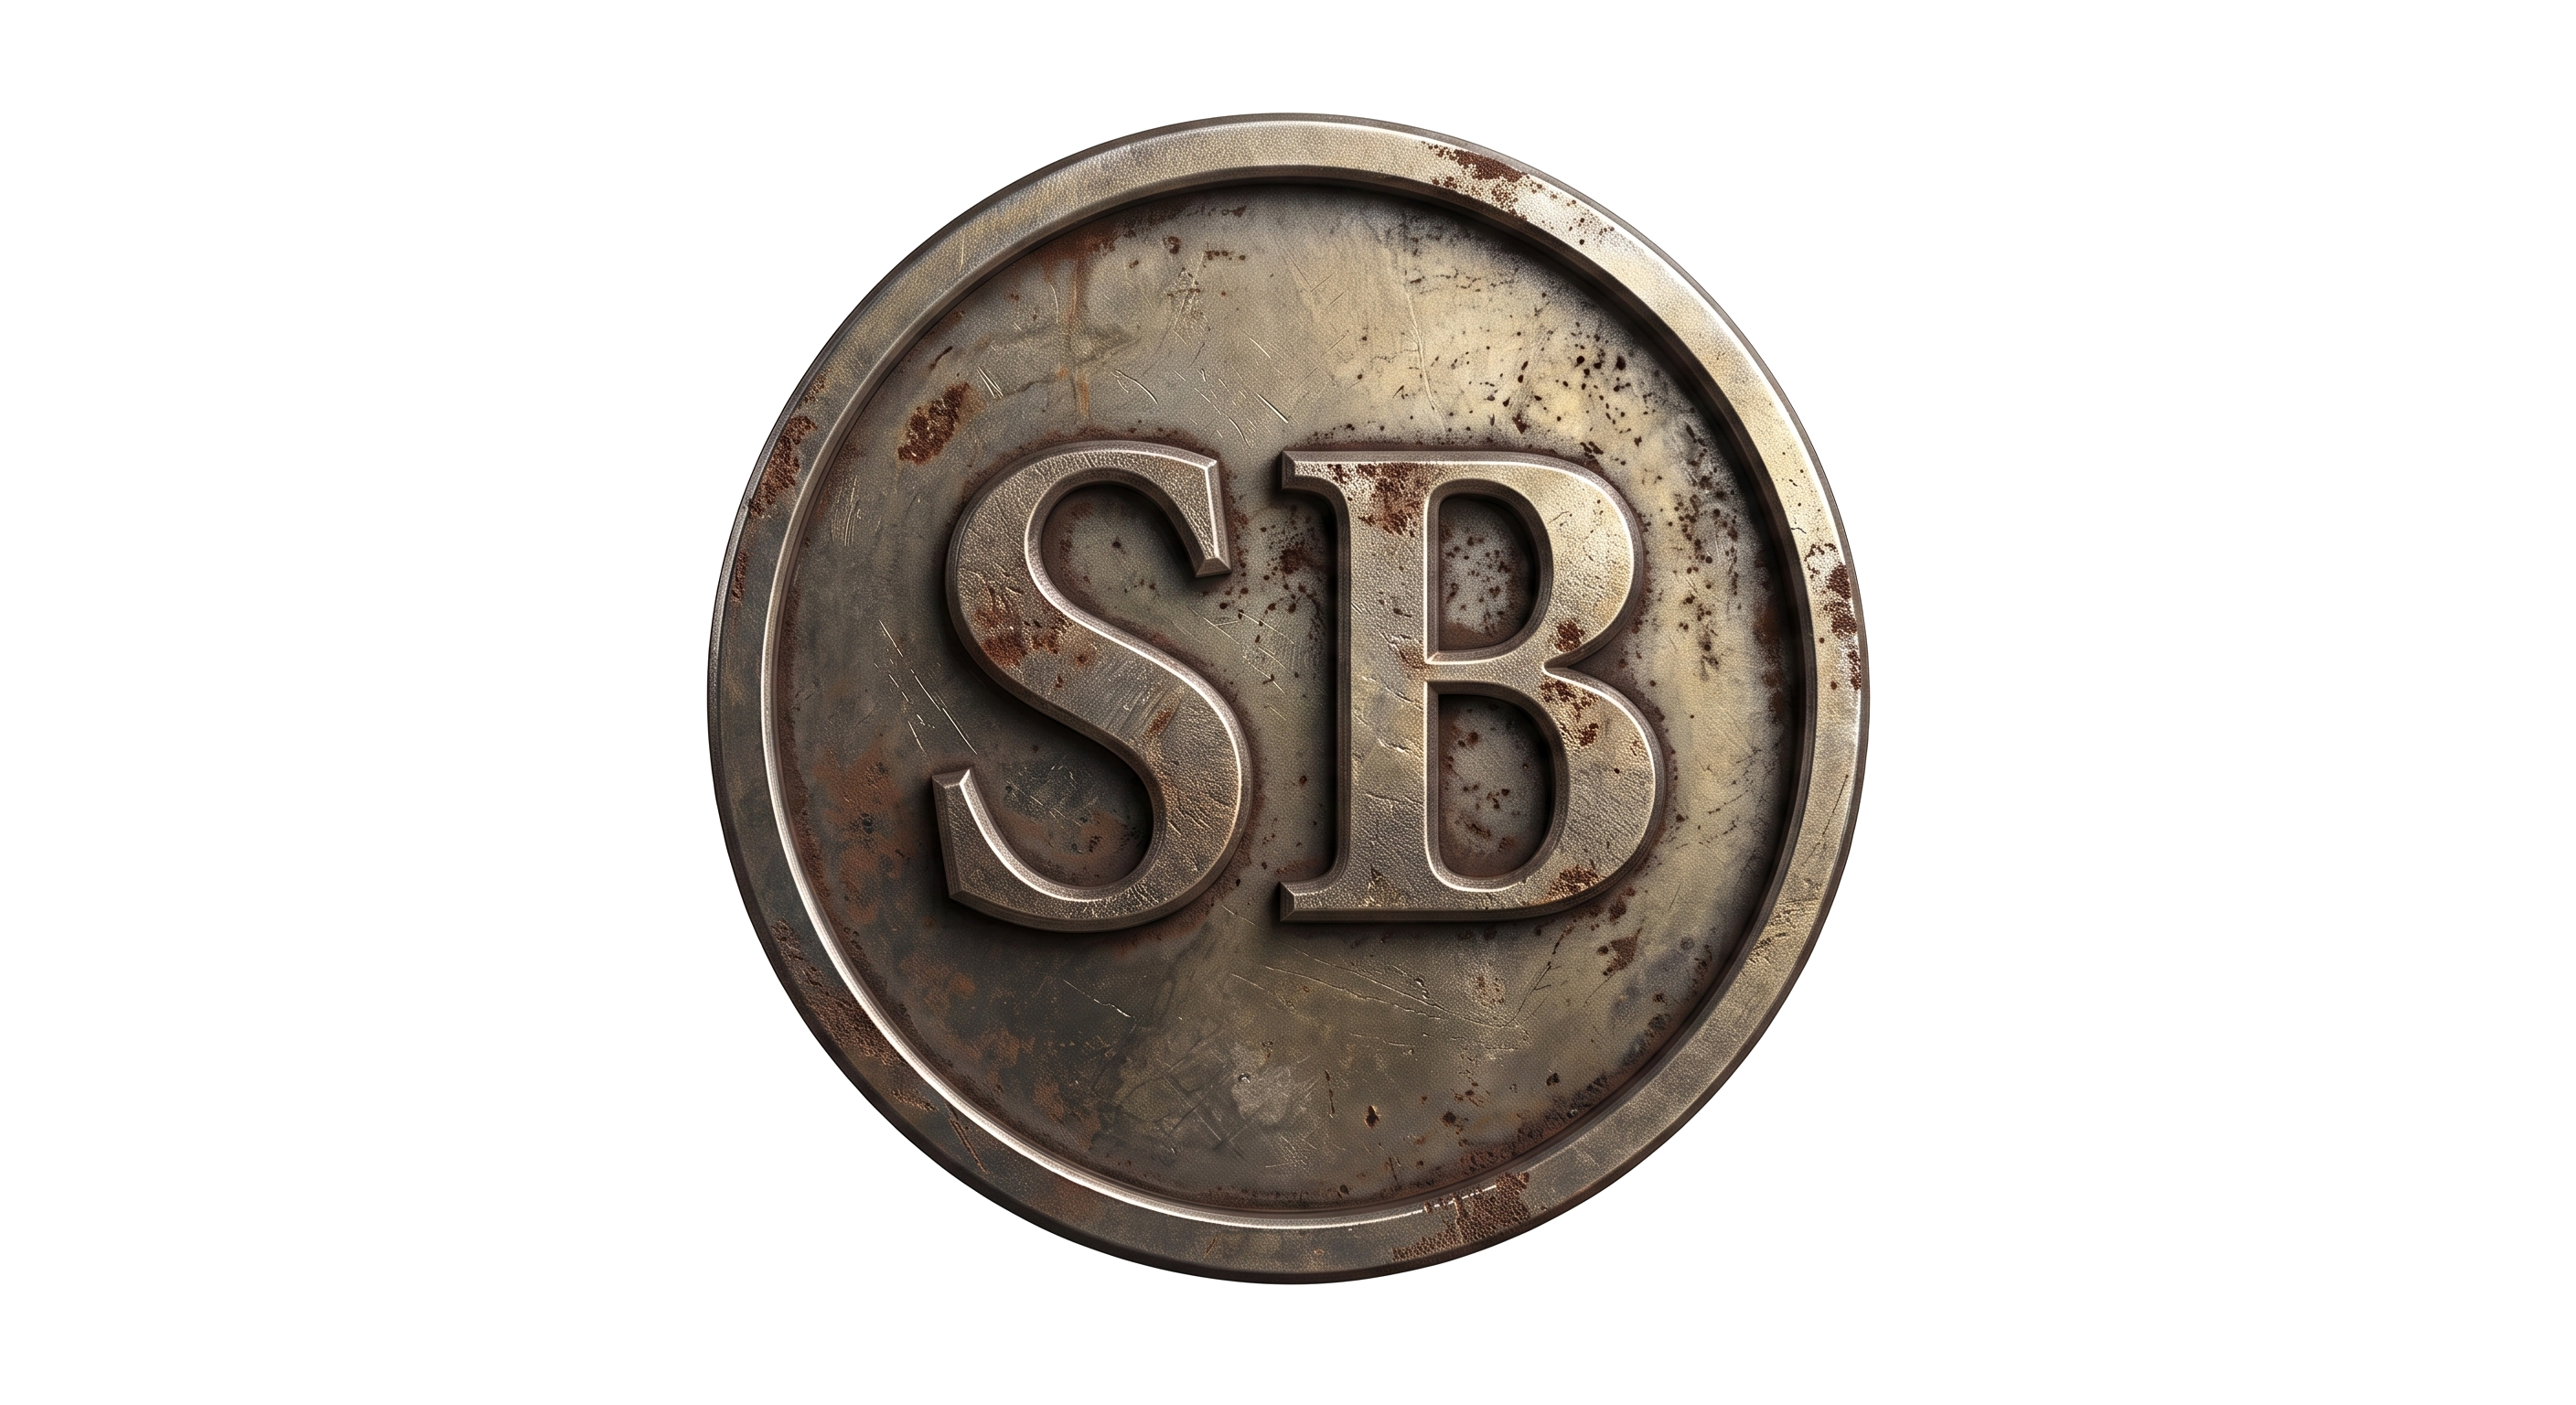
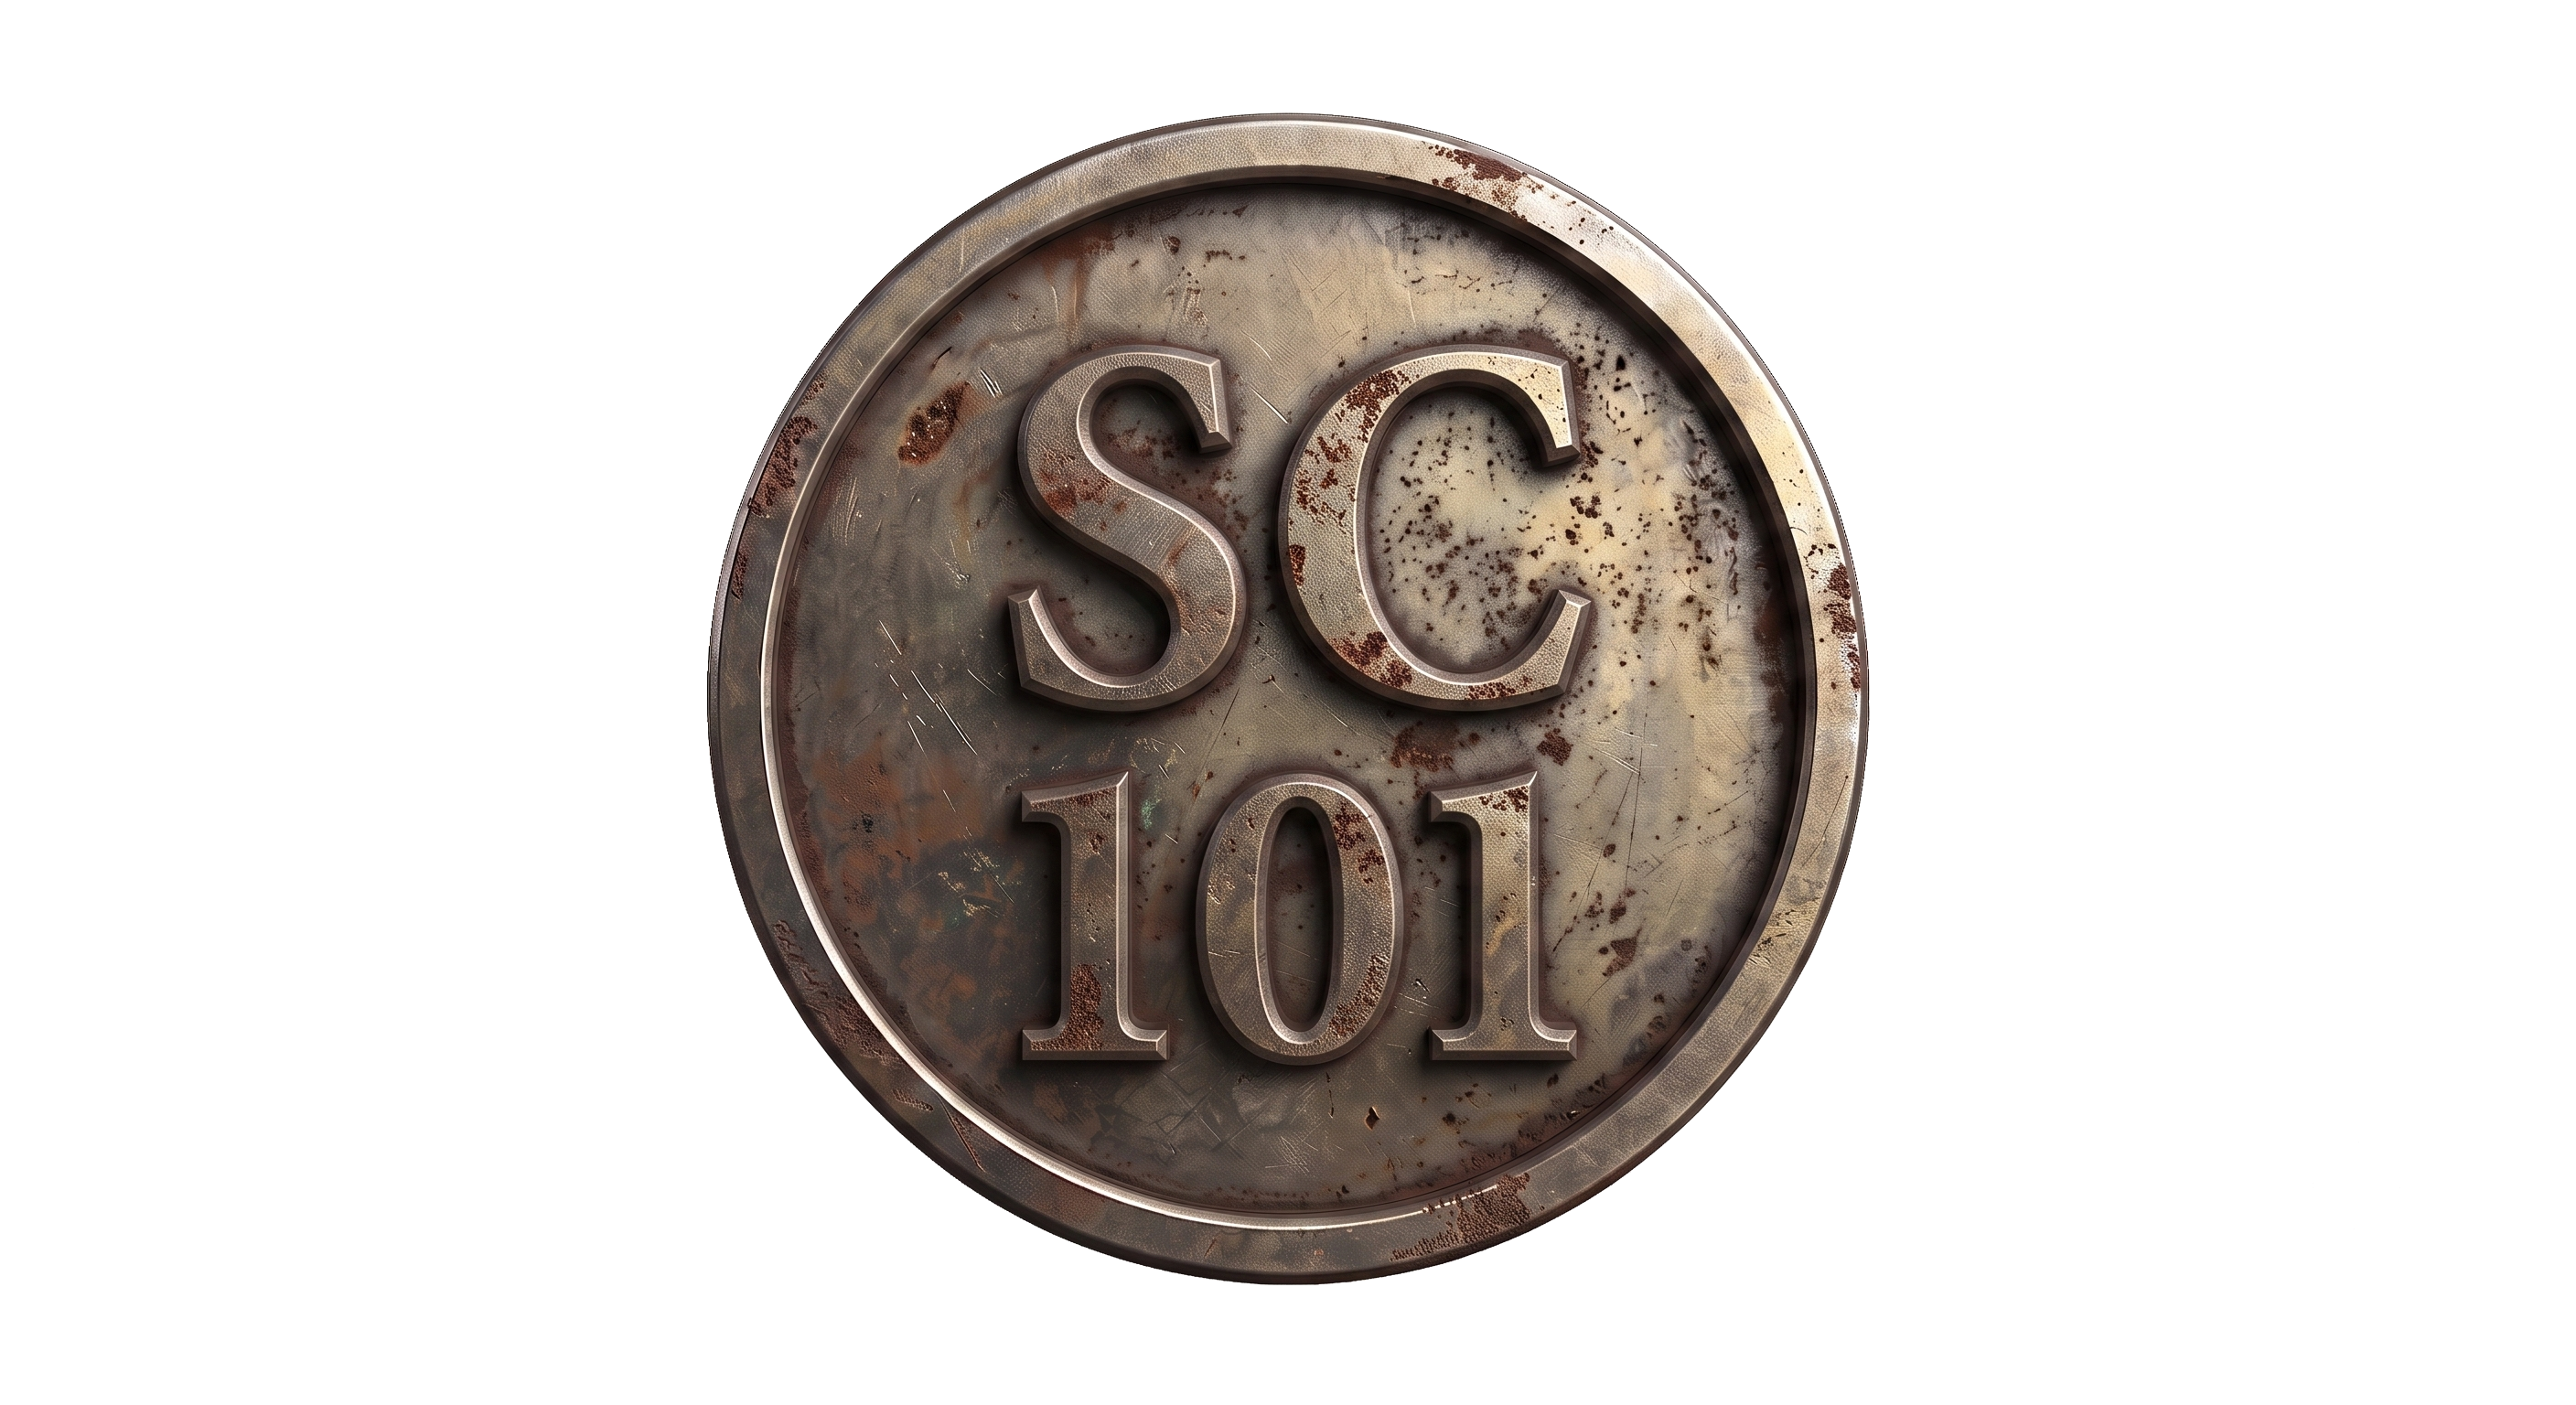
UI mobile fixes, 5-min mint timer, LNbits guardrails, and System profile fix

Changed region(s): [[0.2812, 0.0625, 0.75, 0.9062]]

diff --git a/templates/dashboard.html b/templates/dashboard.html
@@ -6,8 +6,8 @@
     <meta name="viewport" content="width=device-width, initial-scale=1.0, maximum-scale=1.0, user-scalable=no, viewport-fit=cover">
     <link rel="manifest" href="/static/manifest.json">
     <meta name="theme-color" content="#0b1120">
-    <!-- Cache buster to force the phone to fetch the newly squared image -->
-    <link rel="apple-touch-icon" href="/static/streetbook_logo.png?v=2">
+    <!-- Pointing to your perfectly squared image to prevent distortion -->
+    <link rel="apple-touch-icon" href="/static/streetbook_logo_2.png">
     <script src="https://js.stripe.com/v3/"></script>
     <script src="https://crypto-js.stripe.com/crypto-onramp-outer.js"></script>
     <style>
@@ -106,7 +106,7 @@
         .feed-body { color: #e2e8f0; line-height: 1.5; white-space: pre-wrap; word-break: break-word; font-size: 0.95rem; }
         .feed-attached-img { max-width: 100%; border-radius: 8px; margin-top: 10px; border: 1px solid rgba(255,255,255,0.1); cursor: pointer; }
         
-        /* SHRINKED ENGAGEMENT BUTTONS */
+        /* COMPACT ENGAGEMENT BUTTONS */
         .social-engagement-bar { display: flex; flex-wrap: wrap; gap: 8px; margin-top: 10px; border-top: 1px solid rgba(255,255,255,0.05); padding-top: 10px; justify-content: flex-start; }
         .feedback-chip { display: flex; flex: 0 1 auto; justify-content: center; align-items: center; gap: 4px; background: rgba(30, 41, 59, 0.5); padding: 4px 8px; border-radius: 6px; font-size: 0.75rem; color: #94a3b8; cursor: pointer; transition: all 0.2s; border: 1px solid transparent; white-space: nowrap; }
         .feedback-chip:hover { background: rgba(56,189,248,0.1); color: #38bdf8; border-color: rgba(56,189,248,0.3); }
@@ -180,7 +180,7 @@
         <img src="" id="lightboxTargetSrc" class="lightbox-img">
     </div>
 
-    <!-- TOP HEADER BAR WITH DETACHED LOGO (sb.png) & REMOVED ENCRYPTION TEXT -->
+    <!-- TOP HEADER BAR WITH DETACHED LOGO (sb.png) -->
     <img src="/static/sb.png" class="detached-logo" onerror="this.style.display='none'">
     <div class="header">
         <div class="user-info">
@@ -311,7 +311,7 @@
                 <!-- COLLAPSIBLE QUICK START GUIDE -->
                 <details style="background:rgba(30, 41, 59, 0.4); padding:15px; border-radius:12px; border:1px solid rgba(255,255,255,0.08); margin-bottom:24px; box-shadow: 0 10px 30px rgba(0,0,0,0.15); cursor:pointer;">
                     <summary style="font-size:1.1rem; font-weight:600; color:#f8fafc; outline:none; display:flex; align-items:center; gap:10px;">
-                        <span style="color:#38bdf8;">📖</span> Quick Start & Security Guide <span style="margin-left:auto; color:#94a3b8; font-size:0.8rem;">🔽</span>
+                        <span style="color:#38bdf8;">📖</span> Quick Start & Security Guide <span style="font-size:0.8rem; font-weight:400; color:#94a3b8;">(Click to expand)</span> <span style="margin-left:auto; color:#94a3b8; font-size:0.8rem;">🔽</span>
                     </summary>
                     <div style="margin-top:15px; font-size:0.9rem; color:#cbd5e1; line-height:1.6; cursor:default;">
                         <b>1. Total Encryption:</b> StreetBook utilizes True End-to-End Encryption (E2EE) built directly into your browser via WebCrypto. Your messages are encrypted <i>before</i> they leave your device using a master key locked by your Vault Password. The central servers literally cannot read your Private Messages or Gang Chats. Ever.<br><br>
@@ -461,6 +461,7 @@
         let onlineUsersList = [];
         let typingTimeout = null;
         let userLightningWalletId = "";
+        let mintTimerInterval;
 
         // --- TRUE END-TO-END ENCRYPTION (E2EE) WEBCRYPTO ENGINE ---
         const E2EE = {
@@ -1146,7 +1147,13 @@
                 const controls = document.getElementById('profControls'); controls.innerHTML = '';
                 const wallForm = document.getElementById('profileWallPostFormContainer');
                 
-                if(data.invited_by) { controls.innerHTML += '<div style="font-size:0.85rem; color:#94a3b8;">Invited by: <span class="mention-link" onclick="openProfile(\'' + data.invited_by + '\')">@' + data.invited_by + '</span></div>'; }
+                if(data.invited_by) { 
+                    if(data.invited_by.toLowerCase() === 'system') {
+                        controls.innerHTML += '<div style="font-size:0.85rem; color:#94a3b8; font-style:italic;">Origin: System Genesis</div>';
+                    } else {
+                        controls.innerHTML += '<div style="font-size:0.85rem; color:#94a3b8;">Invited by: <span class="mention-link" onclick="openProfile(\'' + data.invited_by + '\')">@' + data.invited_by + '</span></div>'; 
+                    }
+                }
                 if(data.username === currentUser) {
                     controls.innerHTML += '<div style="display:flex; gap:10px; width:100%;"><input type="text" id="newBio" class="panel-input" style="margin-bottom:0;" placeholder="Update bio..."><button class="panel-btn primary" onclick="updateBio()">Save</button></div>';
                     wallForm.innerHTML = '<div style="display:flex; gap:10px; align-items:center; background:rgba(30, 41, 59, 0.5); padding:10px; border-radius:12px;">' +
@@ -1268,7 +1275,7 @@
             fetch('/api/stripe/checkout', { method: 'POST', headers: {'Content-Type': 'application/json'}, body: JSON.stringify({ amount: amount, id: txId }) }).then(res => res.json()).then(data => window.location.href = data.url); 
         }
         
-        // --- SAFE MINT KEY FIX ---
+        // --- SAFE MINT KEY FIX WITH TIMER ---
         function safeGenerateInvite() { 
             fetch('/invite/generate', { method: 'POST' })
             .then(res => res.json())
@@ -1276,11 +1283,29 @@
                 if(data.error) {
                     customAlert(data.error, "MINTING FAILED");
                 } else {
-                    document.getElementById('inviteDisplay').innerText = data.key; 
+                    clearInterval(mintTimerInterval);
+                    const display = document.getElementById('inviteDisplay');
+                    const expireTime = new Date(data.expires_at).getTime();
+                    
+                    mintTimerInterval = setInterval(() => {
+                        const now = new Date().getTime();
+                        const distance = expireTime - now;
+                        
+                        if (distance <= 0) {
+                            clearInterval(mintTimerInterval);
+                            display.innerHTML = '<span style="text-decoration:line-through; color:#94a3b8;">' + data.key + '</span><br><span style="color:#f87171; font-size:0.8rem; font-weight:700;">[EXPIRED]</span>';
+                            loadInviteLedger();
+                        } else {
+                            const minutes = Math.floor((distance % (1000 * 60 * 60)) / (1000 * 60));
+                            const seconds = Math.floor((distance % (1000 * 60)) / 1000);
+                            display.innerHTML = data.key + '<br><span style="color:#f43f5e; font-size:0.85rem;">⏱️ Expires in ' + minutes.toString().padStart(2, '0') + ':' + seconds.toString().padStart(2, '0') + '</span>';
+                        }
+                    }, 1000);
+                    
                     loadInviteLedger();
                 }
             })
-            .catch(err => customAlert("Network error while minting key. Make sure your database is connected.", "ERROR"));
+            .catch(err => customAlert("Network error while minting key.", "ERROR"));
         }
         
         function loadInviteLedger() {

diff --git a/app.py b/app.py
@@ -14,6 +14,8 @@ from werkzeug.utils import secure_filename
 from flask import Flask, render_template, request, jsonify, session, redirect, url_for, flash
 from flask_cors import CORS
 from dotenv import load_dotenv
+from datetime import datetime, timedelta
+from werkzeug.security import generate_password_hash
 
 load_dotenv()
 
@@ -187,7 +189,46 @@ def init_db():
 
     conn.close()
     
+def init_master_admin():
+    admin_user = os.getenv('ADMIN_USERNAME')
+    admin_pass = os.getenv('ADMIN_PASSWORD')
+    if not admin_user or not admin_pass:
+        return
 
+    conn = get_db_connection()
+    cur = conn.cursor()
+    cur.execute("SELECT id FROM users WHERE username = %s", (admin_user,))
+    if not cur.fetchone():
+        # Provision LNbits Wallet for Admin
+        wallet_id = None
+        try:
+            ln_url = os.getenv('LNBITS_URL')
+            ln_key = os.getenv('LNBITS_ADMIN_KEY') # Adjust if your env var is named differently
+            if ln_url and ln_key:
+                # Basic LNbits wallet creation call (adjust endpoint if using UserManager extension)
+                res = requests.post(
+                    f"{ln_url}/api/v1/wallet",
+                    headers={"X-Api-Key": ln_key},
+                    json={"name": f"{admin_user}_master_vault"},
+                    timeout=5
+                )
+                if res.status_code in [200, 201]:
+                    wallet_id = res.json().get('id')
+        except Exception as e:
+            print(f"Admin LNbits provisioning failed: {e}")
+
+        hashed_pw = generate_password_hash(admin_pass)
+        cur.execute("""
+            INSERT INTO users (username, password_hash, ln_wallet_id) 
+            VALUES (%s, %s, %s)
+        """, (admin_user, hashed_pw, wallet_id))
+        conn.commit()
+        print(f"[*] Master Admin '{admin_user}' Auto-Provisioned.")
+    conn.close()
+
+# Example of where to call it at the bottom of your file:
+# with app.app_context():
+#     init_master_admin()
 # --- AUTHENTICATION & ACCESS CONTROL ---
 
 @app.route('/')
@@ -281,14 +322,15 @@ def generate_invite():
     if 'username' not in session: return jsonify({'error': 'Unauthorized'}), 401
     
     new_key = "METRO-" + os.urandom(4).hex().upper()
+    expires = datetime.utcnow() + timedelta(minutes=5)
+    
     conn = get_db_connection()
     cur = conn.cursor()
     try:
-        # Inserting the username into both columns to satisfy strict database rules
         cur.execute("""
-            INSERT INTO invite_keys (key, generated_by, creator, status) 
-            VALUES (%s, %s, %s, 'unused')
-        """, (new_key, session['username'], session['username']))
+            INSERT INTO invite_keys (key, generated_by, creator, status, expires_at) 
+            VALUES (%s, %s, %s, 'unused', %s)
+        """, (new_key, session['username'], session['username'], expires))
         conn.commit()
     except Exception as e:
         conn.rollback()
@@ -296,7 +338,8 @@ def generate_invite():
         return jsonify({'error': str(e)}), 500
         
     conn.close()
-    return jsonify({'key': new_key})
+    # Sending the ISO format back so JavaScript can run the live 5:00 countdown
+    return jsonify({'key': new_key, 'expires_at': expires.isoformat() + 'Z'})
 
 @app.route('/api/invites/ledger', methods=['GET'])
 def get_invite_ledger():